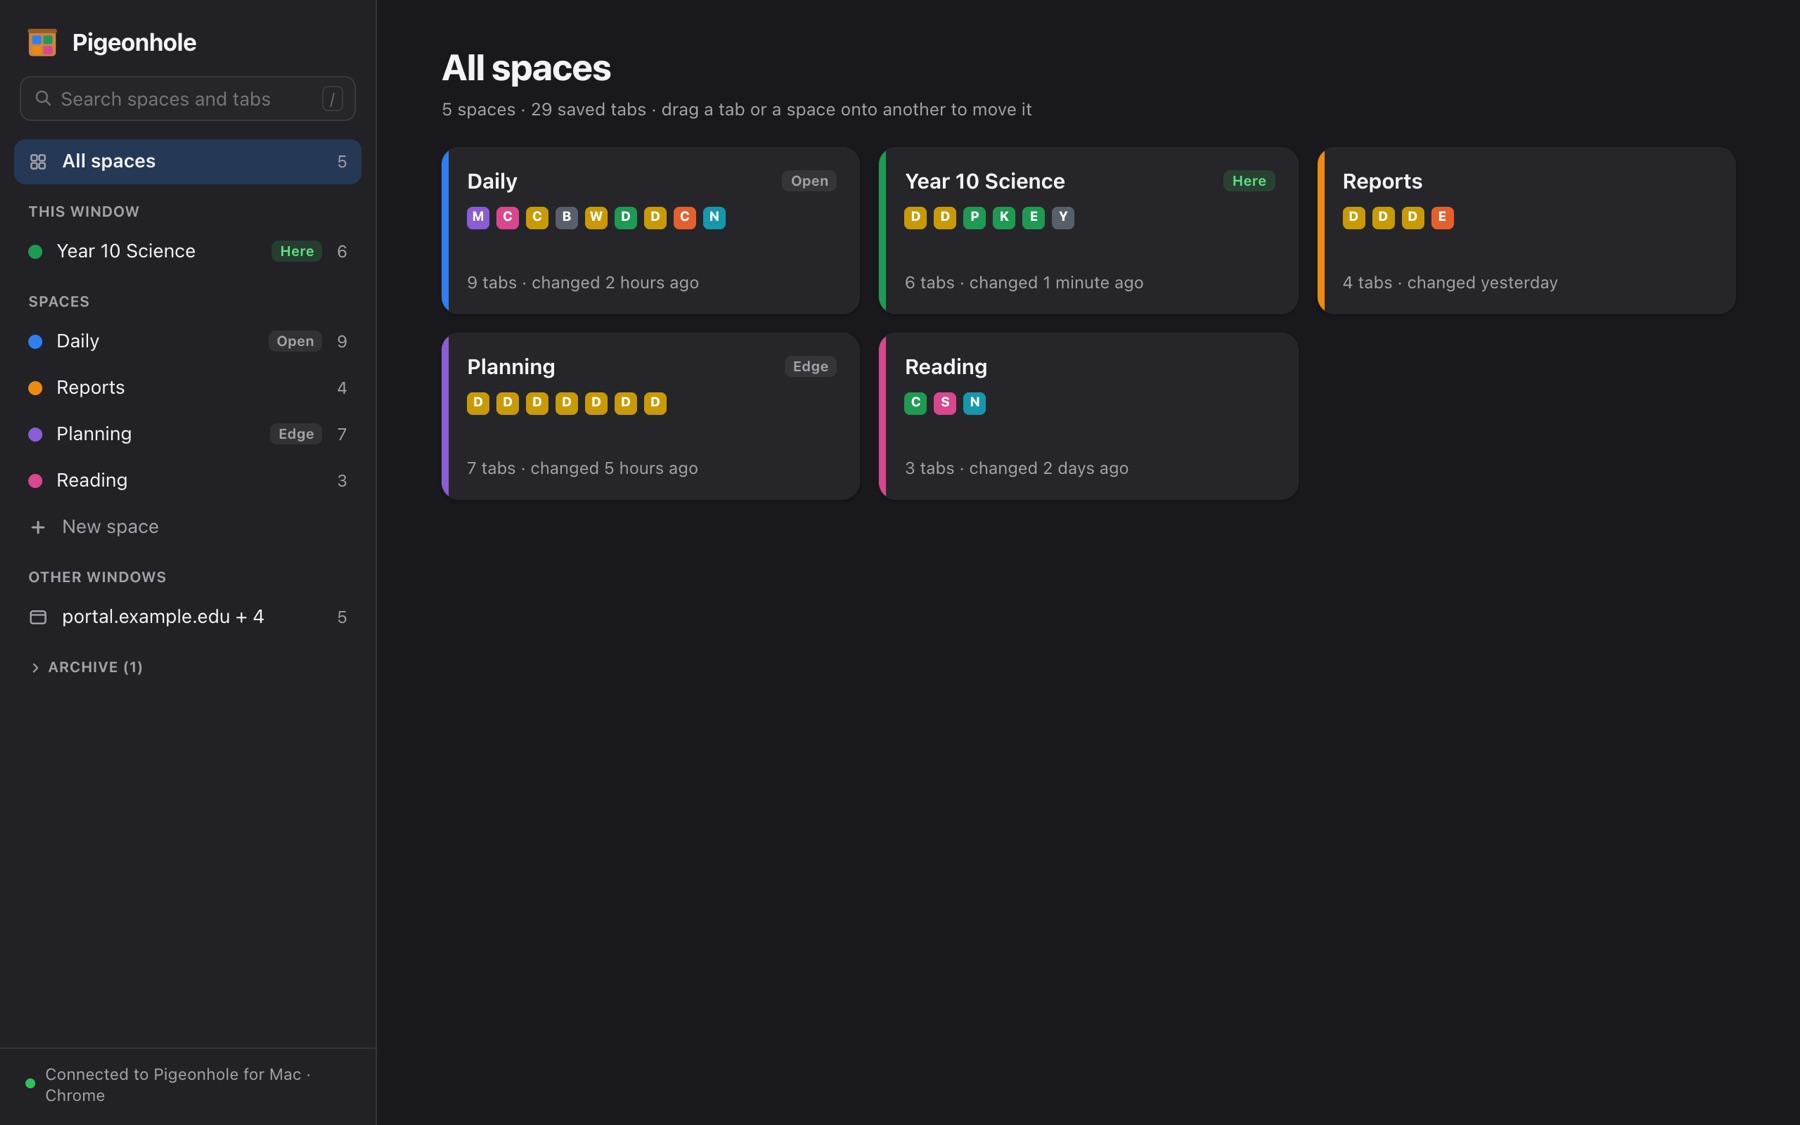
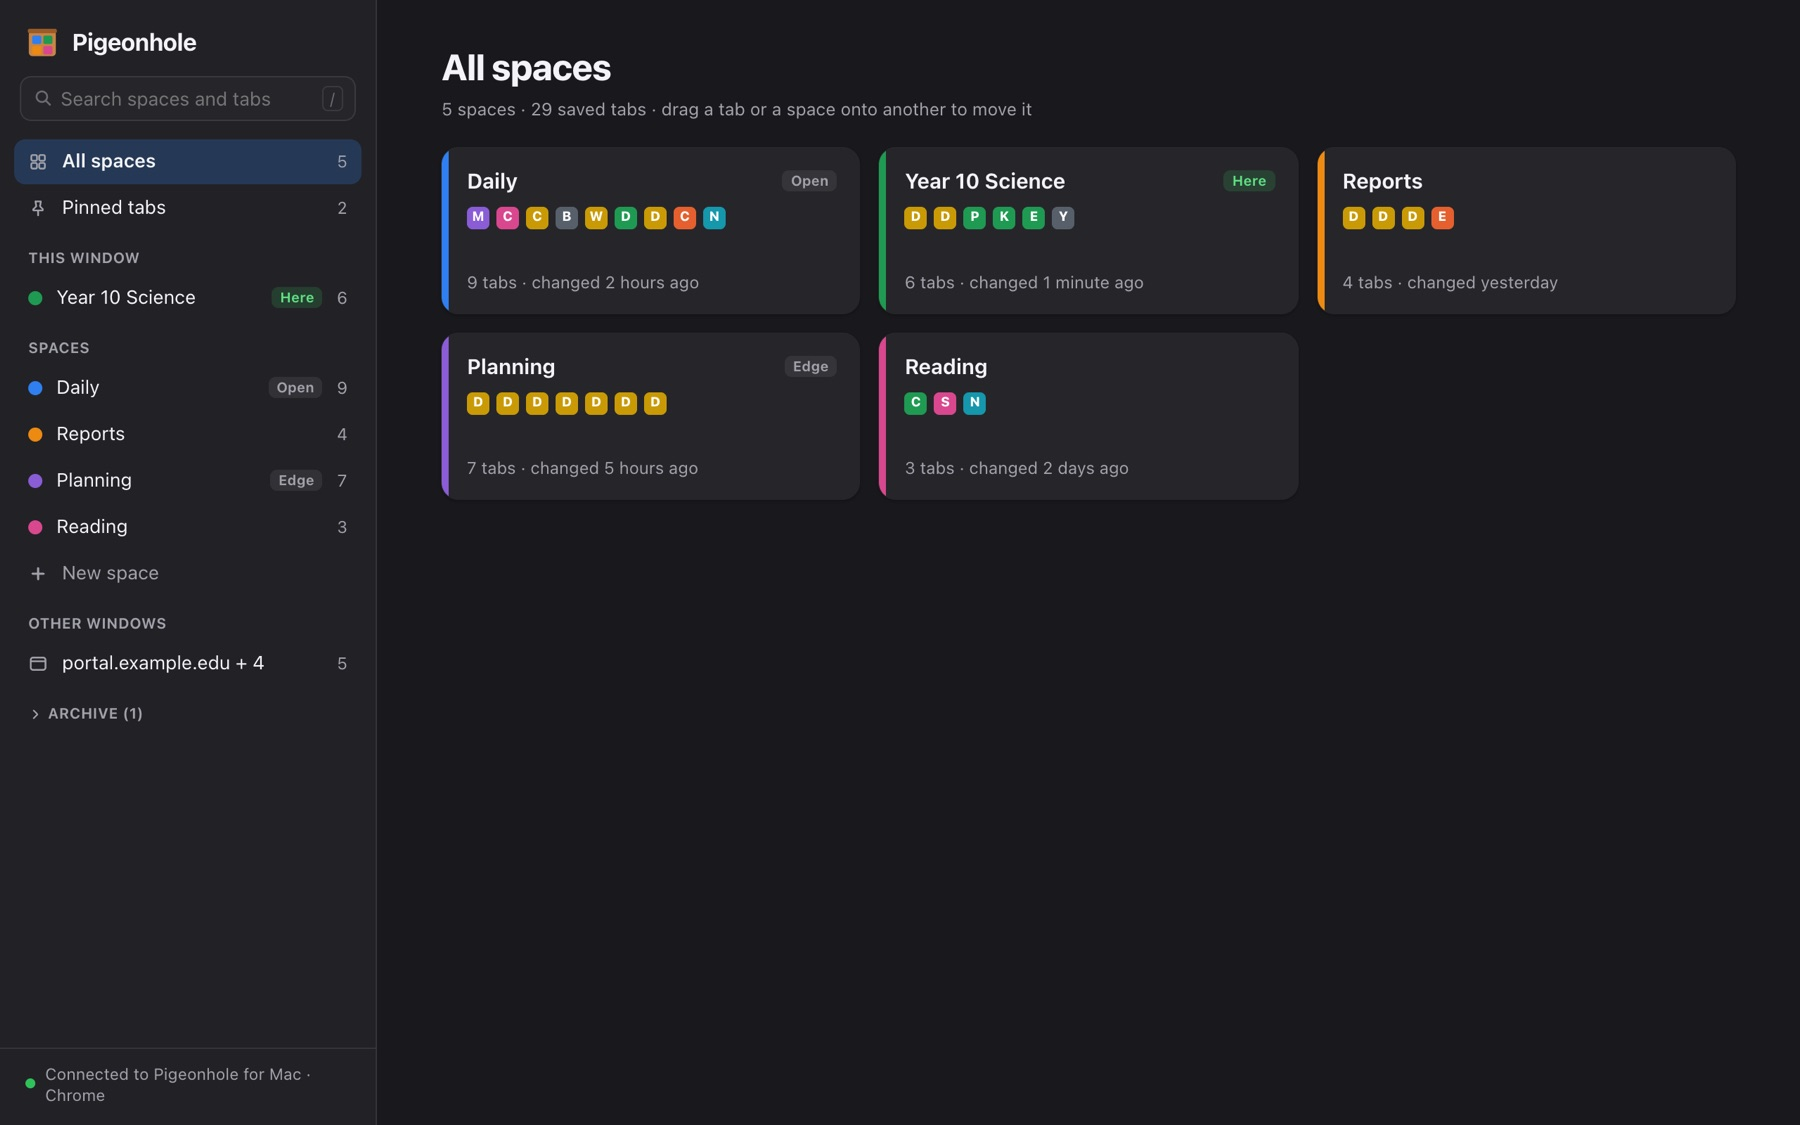
Publish Pigeonhole 1.4.0

diff --git a/apps/pigeonhole/readme.html b/apps/pigeonhole/readme.html
@@ -112,7 +112,7 @@ ol.rm .n{flex:none;width:24px;height:24px;border-radius:12px;display:grid;place-
 <main class="page readme">
   <div class="rmtop"><a class="back" href="./">&#8249; Pigeonhole</a><a href="../../readme/pigeonhole.txt">Plain text</a></div>
   <header class="rmhead"><img class="icon" src="../../icons/pigeonhole.png" alt="" width="64" height="64">
-    <div><h1>Read Me</h1><p>Pigeonhole 1.3.0 · how to install and use it</p></div>
+    <div><h1>Read Me</h1><p>Pigeonhole 1.4.0 · how to install and use it</p></div>
   </header>
   <p class="lead">Spaces of tabs for Chrome and Edge. Give each project or class its own space: switch a window to it and its tabs come back just as you left them. Everything is saved as you browse, and your spaces follow you to your other browser and your other Mac.</p>
 <h2>What's in this folder</h2>
@@ -123,7 +123,7 @@ ol.rm .n{flex:none;width:24px;height:24px;border-radius:12px;display:grid;place-
 <ol class="rm"><li><span class="n">1</span><div><p>Double-click <b>Install Pigeonhole.command</b>.</p><p>If macOS says it can't be opened (<b>Apple could not verify…</b>): click Done, open System Settings → Privacy &amp; Security, scroll down and click <b>Open Anyway</b>, then double-click the installer again.</p><p>Or open Terminal, type <code>bash</code> followed by a space, drag <b>Install Pigeonhole.command</b> into the Terminal window, and press Return.</p></div></li><li><span class="n">2</span><div><p>The installer moves Pigeonhole into Applications and opens it. Its Settings open at Browsers.</p></div></li><li><span class="n">3</span><div><p>Add Pigeonhole's extension to Chrome (and Edge, if you use it). It's free and doesn't need the Web Store: a. Click <b>Open Extensions Page</b> (or type chrome://extensions in Chrome's address bar; in Edge it's edge://extensions). b. Turn on <b>Developer mode</b> (top right in Chrome, on the left in Edge). c. Click <b>Load unpacked</b> and choose the folder Pigeonhole shows you (<b>Show Folder</b>). In the folder window, ⌘⇧G and ~/Library/Application Support/Pigeonhole/Extension gets you there. Settings → Browsers shows <b>Connected</b> a moment later.</p></div></li></ol>
 <p>Prefer to do it by hand? Drag Pigeonhole into Applications and open it. The first time, macOS blocks it: go to System Settings → Privacy &amp; Security and click <b>Open Anyway</b>.</p>
 <h2>Using Pigeonhole</h2>
-<ul class="rm"><li><b>Make a space:</b> click Pigeonhole's button in the browser's toolbar (the little cabinet), then <b>Save window as space</b>. Give it a name and a colour. The button's badge always shows which space a window is.</li><li><b>Switch:</b> press ⌥A (Option-A) or click the button, pick a space and press Return. This window's tabs are swapped for that space's. ⌘-Return opens it in a new window instead. Type to search spaces and every saved tab.</li><li><b>Everything saves by itself:</b> new tabs, closed tabs, the order, tab groups. Close a space (⌥W, or <b>Close space</b>) and its tabs are kept for next time.</li><li>Pinned tabs (Gmail, say) stay in every window whatever the space. In Settings you can make them belong to their space instead.</li><li>Pigeonhole's page is the first, pinned tab of every window. Its sidebar lists all your spaces; click one to see its tabs, double-click to open it here. For a closed space, click a tab to open the space at that tab, or use the arrow to open just that tab. Opening a space from the page keeps you on the page.</li><li>Tick tabs (the box at the left of each row) to move them, put them in a group, close or remove them, or drag them onto a space in the sidebar. Each section (Pinned, each group, the other tabs) has its own box to tick all its tabs, and an arrow to fold it away. <b>Group…</b> puts ticked tabs in a new group or an existing one, or takes them out.</li><li><b>Drag to rearrange:</b> drag a tab up or down the list (a line shows where it lands). Drop it among a group's tabs, or on the group's header, to put it in that group; among the other tabs to take it out. Drag a group's header to move the whole group. This works for this window's tabs and for a closed space's saved tabs. <b>All spaces</b> shows each space as a card, and / searches every saved tab. Settings → General can turn the page off; the switcher's grid button brings it back.</li><li><b>Move a tab to another space:</b> ⌥D, or right-click the page → <b>Move tab to space</b>. <b>New space…</b> at the bottom makes a new one for it. ⌥N makes a new space.</li><li>The side panel (the panel button in Pigeonhole's popup) lists this space's tabs: tick some to move them, put them to sleep or close them. <b>Close duplicates</b> and <b>Sort</b> tidy up.</li><li><b>History:</b> the clock button. A snapshot is kept every hour while you use a space, and each time it closes. Tick the tabs you want back, or <b>Restore all</b> to put the space back as it was then.</li><li><b>The menu bar:</b> Pigeonhole's icon lists your spaces, how many tabs each has and where it's open. Click one to open it in your browser (hold Option for the other browser). ⌃⌥A (Control-Option-A) shows the switcher from any app. Recently Closed and Archive are there too.</li><li>Settings (from the menu):<ul><li><b>General:</b> how switching works. <b>Quick</b> keeps the old space's tabs ready in one minimised window, so going back is instant (they fall asleep after 15 minutes and close after 4 hours). <b>Light</b> closes them and reopens them later. Also: pinned tabs, putting idle tabs to sleep, how long history is kept, opening at login, and the menu-bar icon's colour.</li><li><b>Browsers:</b> setting up the extension, and whether each browser is connected.</li><li><b>Sync:</b> where your spaces are kept, and your other Mac.</li><li><b>Shortcuts:</b> the ⌃⌥A shortcut. The browser shortcuts (⌥A, ⌥D, ⌥N, ⌥W) are changed in the browser: chrome://extensions/shortcuts.</li></ul></li></ul>
+<ul class="rm"><li><b>Make a space:</b> click Pigeonhole's button in the browser's toolbar (the little cabinet), then <b>Save window as space</b>. Give it a name and a colour. The button's badge always shows which space a window is.</li><li><b>Switch:</b> press ⌥A (Option-A) or click the button, pick a space and press Return. This window's tabs are swapped for that space's. ⌘-Return opens it in a new window instead. Type to search spaces and every saved tab.</li><li><b>Everything saves by itself:</b> new tabs, closed tabs, the order, tab groups. Close a space (⌥W, or <b>Close space</b>) and its tabs are kept for next time.</li><li>Pinned tabs (Gmail, say) are in every window: every space, new windows too. Pin, unpin or move one and every window follows. If Chrome comes back from a restart without them, Pigeonhole puts them back. To keep them out of one space, tick <b>Disable pinned tabs for this space</b> beside its Pinned section on Pigeonhole's page. <b>Pinned tabs</b> in the page's sidebar lists them, with a history to bring back one you closed. In Settings you can make them belong to their space instead.</li><li>Pigeonhole's page is the first, pinned tab of every window. Its sidebar lists all your spaces; click one to see its tabs, double-click to open it here. For a closed space, click a tab to open the space at that tab, or use the arrow to open just that tab. Opening a space from the page keeps you on the page.</li><li>Tick tabs (the box at the left of each row) to move them, put them in a group, close or remove them, or drag them onto a space in the sidebar. Each section (Pinned, each group, the other tabs) has its own box to tick all its tabs, and an arrow to fold it away. <b>Group…</b> puts ticked tabs in a new group or an existing one, or takes them out.</li><li><b>Drag to rearrange:</b> drag a tab up or down the list (a line shows where it lands). Drop it among a group's tabs, or on the group's header, to put it in that group; among the other tabs to take it out. Drag a group's header to move the whole group. This works for this window's tabs and for a closed space's saved tabs. <b>All spaces</b> shows each space as a card, and / searches every saved tab. Settings → General can turn the page off; the switcher's grid button brings it back.</li><li><b>Move a tab to another space:</b> ⌥D, or right-click the page → <b>Move tab to space</b>. <b>New space…</b> at the bottom makes a new one for it. ⌥N makes a new space.</li><li>The side panel (the panel button in Pigeonhole's popup) lists this space's tabs: tick some to move them, put them to sleep or close them. <b>Close duplicates</b> and <b>Sort</b> tidy up.</li><li><b>History:</b> the clock button. A snapshot is kept every hour while you use a space, and each time it closes. Tick the tabs you want back, or <b>Restore all</b> to put the space back as it was then.</li><li><b>The menu bar:</b> Pigeonhole's icon lists your spaces, how many tabs each has and where it's open. Click one to open it in your browser (hold Option for the other browser). ⌃⌥A (Control-Option-A) shows the switcher from any app. Recently Closed and Archive are there too.</li><li>Settings (from the menu):<ul><li><b>General:</b> how switching works. <b>Quick</b> keeps the old space's tabs ready in one minimised window, so going back is instant (they fall asleep after 15 minutes and close after 4 hours). <b>Light</b> closes them and reopens them later. Also: pinned tabs, putting idle tabs to sleep, how long history is kept, opening at login, and the menu-bar icon's colour.</li><li><b>Browsers:</b> setting up the extension, and whether each browser is connected.</li><li><b>Sync:</b> where your spaces are kept, and your other Mac.</li><li><b>Shortcuts:</b> the ⌃⌥A shortcut. The browser shortcuts (⌥A, ⌥D, ⌥N, ⌥W) are changed in the browser: chrome://extensions/shortcuts.</li></ul></li></ul>
 <h2>Your spaces</h2>
 <ul class="rm"><li>They're kept in iCloud Drive → Pigeonhole, so your other Mac has them too (install Pigeonhole there and add the extension). Nothing is sent anywhere else: there's no account and no server.</li><li>If a space is open on both Macs (or in Chrome and Edge) and changes in one, the other asks: <b>Use theirs</b> or <b>Keep this window's</b>.</li><li>The first time, macOS may ask whether Pigeonhole can use iCloud Drive. Click Allow. If iCloud Drive is off, your spaces stay on this Mac.</li></ul>
 <h2>Good to know</h2>

diff --git a/apps/pigeonhole/index.html b/apps/pigeonhole/index.html
@@ -115,15 +115,15 @@ ol.rm .n{flex:none;width:24px;height:24px;border-radius:12px;display:grid;place-
     <div><h1>Pigeonhole</h1>
     <p class="sum">Give each project its own space of tabs in Chrome and Edge. Switch a window to a space and its tabs come back as you left them; everything is saved as you browse, with history. Pigeonhole's page, the first tab of every window, lists all your spaces and their tabs. Spaces follow you to your other Mac through iCloud Drive.</p>
     <p class="alt">An alternative to Workona.</p>
-    <div class="acts"><a class="btn primary big" href="https://github.com/explainsims/store/releases/download/pigeonhole-1.3.0/Pigeonhole-1.3.0.zip">Download</a><small>1.3.0 · 2.5 MB · free</small><a href="#feedback"><svg width="14" height="14" viewBox="0 0 15 15" fill="none" stroke="currentColor" stroke-width="1.4" stroke-linejoin="round" aria-hidden="true"><path d="M2.2 3.6c0-.9.7-1.6 1.6-1.6h7.4c.9 0 1.6.7 1.6 1.6v5.2c0 .9-.7 1.6-1.6 1.6H6.4L3.6 12.8v-2.4c-.8 0-1.4-.7-1.4-1.6z"/></svg>Send Feedback</a></div>
+    <div class="acts"><a class="btn primary big" href="https://github.com/explainsims/store/releases/download/pigeonhole-1.4.0/Pigeonhole-1.4.0.zip">Download</a><small>1.4.0 · 2.5 MB · free</small><a href="#feedback"><svg width="14" height="14" viewBox="0 0 15 15" fill="none" stroke="currentColor" stroke-width="1.4" stroke-linejoin="round" aria-hidden="true"><path d="M2.2 3.6c0-.9.7-1.6 1.6-1.6h7.4c.9 0 1.6.7 1.6 1.6v5.2c0 .9-.7 1.6-1.6 1.6H6.4L3.6 12.8v-2.4c-.8 0-1.4-.7-1.4-1.6z"/></svg>Send Feedback</a></div>
     <p class="tip">Or get <a href="../../apps/storefront/">Storefront</a>: it installs Pigeonhole in one click, skips the Open Anyway step, and keeps it up to date.</p></div>
   </header>
   <section class="facts" aria-label="Facts">
-    <div><small>Version</small><b>1.3.0</b><i>latest</i></div>
+    <div><small>Version</small><b>1.4.0</b><i>latest</i></div>
     <div><small>Size</small><b>2.5 MB</b><i>download</i></div>
     <div><small>Needs</small><b>macOS 14</b><i>or later</i></div>
     <div><small>Chip</small><b>Any Mac</b><i>Apple silicon and Intel</i></div>
-    <div><small>Updated</small><b>12 Nov</b><i>2026</i></div>
+    <div><small>Updated</small><b>13 Nov</b><i>2026</i></div>
   </section>
   <section class="shots">
   <div class="sh"><h2>Screenshots</h2><div class="seg" role="group" aria-label="Appearance"><button type="button" data-mode="light" aria-pressed="true">Light</button><button type="button" data-mode="dark" aria-pressed="false">Dark</button></div></div>
@@ -131,7 +131,7 @@ ol.rm .n{flex:none;width:24px;height:24px;border-radius:12px;display:grid;place-
 </section>
 <dialog class="lightbox" aria-label="Screenshot"><img alt=""><button type="button" class="lb prev" aria-label="Previous">&#8249;</button><button type="button" class="lb next" aria-label="Next">&#8250;</button><button type="button" class="lb x" aria-label="Close">&times;</button></dialog>
   <section class="cols">
-    <div><h2>What's new in 1.3.0</h2><ul><li>Drag to rearrange tabs and whole groups on Pigeonhole's page and in the side panel; fold sections, tick a whole section, bigger tick boxes and a Group menu; opening a space from the page keeps you on it.</li></ul></div>
+    <div><h2>What's new in 1.4.0</h2><ul><li>Pigeonhole now keeps your pinned tabs and puts them in every window: every space, new windows too. If Chrome comes back from a restart without them, Pigeonhole puts them back.</li><li>Tick “Disable pinned tabs for this space” beside a space’s Pinned section to keep them out of that space.</li><li>“Pinned tabs” in the page’s sidebar lists them, with a history to bring back one you closed.</li><li>Close duplicates never closes a pinned tab.</li></ul></div>
     <div><h2>Good to know</h2><dl class="kv"><dt>Needs</dt><dd>Google Chrome or Microsoft Edge. Add its extension once with Load unpacked: Settings › Browsers shows how</dd><dt>Licence</dt><dd>MIT</dd><dt>Read Me</dt><dd><a href="readme.html">How to use Pigeonhole</a></dd><dt>First open</dt><dd>macOS asks you to allow it once, under System Settings › Privacy &amp; Security › Open Anyway. Apps installed through Storefront skip that.</dd></dl></div>
   </section>
   <section class="fbcard" id="feedback"><div class="fbtop"><h2>Send feedback about Pigeonhole</h2><span class="priv"><svg width="12" height="12" viewBox="0 0 12 12" fill="none" stroke="currentColor" stroke-width="1.5" aria-hidden="true"><rect x="2" y="5.2" width="8" height="5.6" rx="1.4"/><path d="M3.8 5.2V3.8a2.2 2.2 0 0 1 4.4 0v1.4"/></svg>Private and anonymous</span></div>

diff --git a/index.html b/index.html
@@ -147,8 +147,8 @@ ol.rm .n{flex:none;width:24px;height:24px;border-radius:12px;display:grid;place-
   <div class="t"><h3><a class="cover" href="apps/hem/">Hem</a></h3><p class="tag">Volume and brightness sliders on your trackpad's edges.</p><small>1.0.1 · 2.3 MB</small></div>
   <a class="btn get" href="https://github.com/explainsims/store/releases/download/hem-1.0.1/Hem-1.0.1.zip" aria-label="Download Hem">Download</a></article>
 <article class="app" id="pigeonhole" data-kind="menubar" data-text="pigeonhole spaces of tabs for chrome and edge. give each project its own space of tabs in chrome and edge. switch a window to a space and its tabs come back as you left them; everything is saved as you browse, with history. pigeonhole's page, the first tab of every window, lists all your spaces and their tabs. spaces follow you to your other mac through icloud drive. workona menu bar"><img class="icon" src="icons/pigeonhole.png" alt="" width="64" height="64" loading="lazy">
-  <div class="t"><h3><a class="cover" href="apps/pigeonhole/">Pigeonhole</a></h3><p class="tag">Spaces of tabs for Chrome and Edge.</p><small>1.3.0 · 2.5 MB</small></div>
-  <a class="btn get" href="https://github.com/explainsims/store/releases/download/pigeonhole-1.3.0/Pigeonhole-1.3.0.zip" aria-label="Download Pigeonhole">Download</a></article>
+  <div class="t"><h3><a class="cover" href="apps/pigeonhole/">Pigeonhole</a></h3><p class="tag">Spaces of tabs for Chrome and Edge.</p><small>1.4.0 · 2.5 MB</small></div>
+  <a class="btn get" href="https://github.com/explainsims/store/releases/download/pigeonhole-1.4.0/Pigeonhole-1.4.0.zip" aria-label="Download Pigeonhole">Download</a></article>
 <article class="app" id="scrawl" data-kind="tools" data-text="scrawl screenshots with arrows, text and blur. capture an area, a window or the whole screen from the menu bar, then mark it up with arrows, shapes, text, highlights and blur. skitch tools"><img class="icon" src="icons/scrawl.png" alt="" width="64" height="64" loading="lazy">
   <div class="t"><h3><a class="cover" href="apps/scrawl/">Scrawl</a></h3><p class="tag">Screenshots with arrows, text and blur.</p><small>1.1.1 · 2.2 MB</small></div>
   <a class="btn get" href="https://github.com/explainsims/store/releases/download/scrawl-1.1.1/Scrawl-1.1.1.zip" aria-label="Download Scrawl">Download</a></article>
@@ -172,7 +172,7 @@ ol.rm .n{flex:none;width:24px;height:24px;border-radius:12px;display:grid;place-
 </main>
 <footer>
   <p>The first time you open an app downloaded here, macOS asks you to allow it under System Settings › Privacy &amp; Security › Open Anyway, because the apps aren't notarised by Apple. Apps installed through Storefront skip that step, and so does Storefront when you install it from Terminal.</p>
-  <p>Not affiliated with Apple or with the makers of any app these are alternatives to. Updated 12 November 2026.</p>
+  <p>Not affiliated with Apple or with the makers of any app these are alternatives to. Updated 13 November 2026.</p>
 </footer>
 <script>
 (() => {
